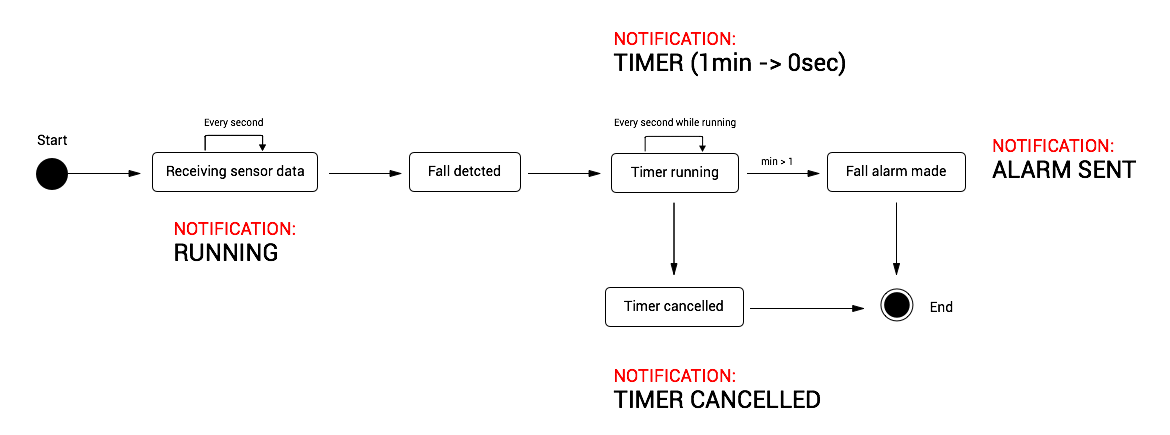
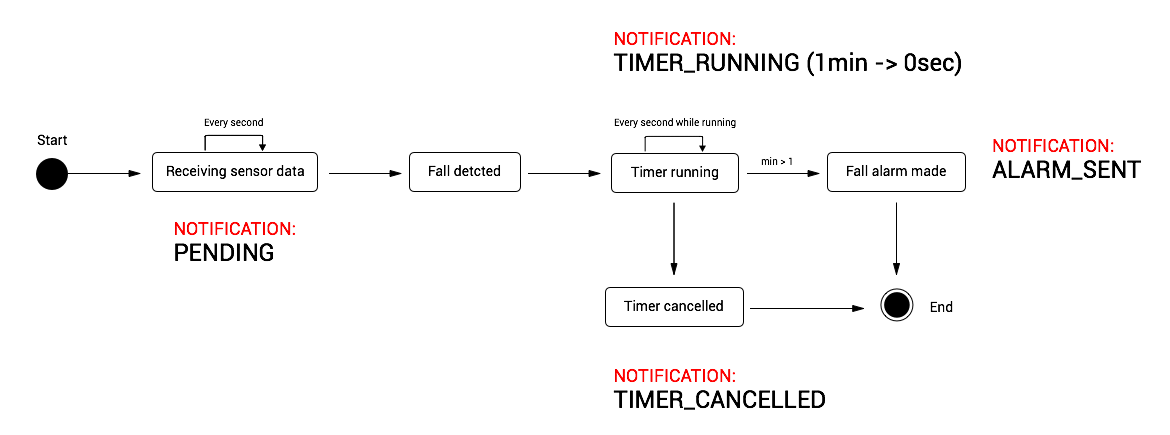
Update wiki resources and some class names and structure

diff --git a/mobile/src/main/java/sintef/android/gravity/MainService.java b/mobile/src/main/java/sintef/android/gravity/MainService.java
@@ -53,12 +53,13 @@ public class MainService extends Service {
     };
 
     private AsyncTask<Void, Integer, Boolean> mAlarmTask;
-    private int seconds = 60;
-    private int resolution_multiplier = 4;
-    private int max = seconds * resolution_multiplier;
-    private int second = 1000;
-    private int resolution_second = second / resolution_multiplier;
-    private int update_frequency = resolution_multiplier * 4;
+
+    private final int seconds = 60;
+    private final int resolution_multiplier = 4;
+    private final int max = seconds * resolution_multiplier;
+    private final int second = 1000;
+    private final int resolution_second = second / resolution_multiplier;
+    private final int update_frequency = resolution_multiplier * 4;
 
     @Override
     public void onCreate() {
@@ -228,7 +229,7 @@ public class MainService extends Service {
         mNotificationManager.notify(R.string.app_name, mNotificationBuilder.build());
     }
 
-    public static enum TimerState {
+    public enum TimerState {
         PENDING, TIMER_RUNNING, TIMER_CANCELLED, ALARM_SENT,
     }
 }

diff --git a/mobile/src/main/java/sintef/android/gravity/utils/NextOfKinDialog.java b/mobile/src/main/java/sintef/android/gravity/utils/NextOfKinDialog.java
@@ -1,4 +1,4 @@
-package sintef.android.gravity;
+package sintef.android.gravity.utils;
 
 import android.annotation.SuppressLint;
 import android.app.Activity;
@@ -13,6 +13,7 @@ import butterknife.ButterKnife;
 import butterknife.InjectView;
 import sintef.android.controller.common.Constants;
 import sintef.android.controller.utils.PreferencesHelper;
+import sintef.android.gravity.R;
 import sintef.android.gravity.wizard.FloatingHintEditText;
 
 /**

diff --git a/mobile/src/main/java/sintef/android/gravity/MainActivity.java b/mobile/src/main/java/sintef/android/gravity/MainActivity.java
@@ -21,6 +21,7 @@ import sintef.android.controller.utils.PreferencesHelper;
 import sintef.android.controller.utils.SoundHelper;
 import sintef.android.controller.utils.Utils;
 import sintef.android.gravity.advanced.AdvancedActivity;
+import sintef.android.gravity.utils.NextOfKinDialog;
 import sintef.android.gravity.wizard.WizardMain;
 
 public class MainActivity extends ActionBarActivity {

diff --git a/mobile/src/main/java/sintef/android/gravity/WearDataReceiver.java b/mobile/src/main/java/sintef/android/gravity/WearDataReceiver.java
@@ -23,7 +23,7 @@ import sintef.android.controller.common.Constants;
 import sintef.android.controller.sensor.RemoteSensorManager;
 import sintef.android.controller.sensor.SensorSession;
 
-public class RemoteSensorService extends WearableListenerService {
+public class WearDataReceiver extends WearableListenerService {
 
     private static final String TAG = "G:PHONE:RSS";
 

diff --git a/mobile/src/main/java/sintef/android/gravity/utils/BootReceiver.java b/mobile/src/main/java/sintef/android/gravity/utils/BootReceiver.java
@@ -1,8 +1,10 @@
-package sintef.android.gravity;
+package sintef.android.gravity.utils;
 
 import android.content.BroadcastReceiver;
 import android.content.Context;
 import android.content.Intent;
+
+import sintef.android.gravity.MainService;
 
 public class BootReceiver extends BroadcastReceiver {
     @Override

diff --git a/controller/src/main/java/sintef/android/controller/EventTypes.java b/controller/src/main/java/sintef/android/controller/EventTypes.java
@@ -10,7 +10,6 @@ public enum EventTypes {
     ONSTOP,
     FINISH,
     FALL_DETECTED,
-    FALL_DETECTED_FOR_RECORDING,
     RESET_SENSOR_LISTENERS,
     START_ALARM,
     STOP_ALARM,
